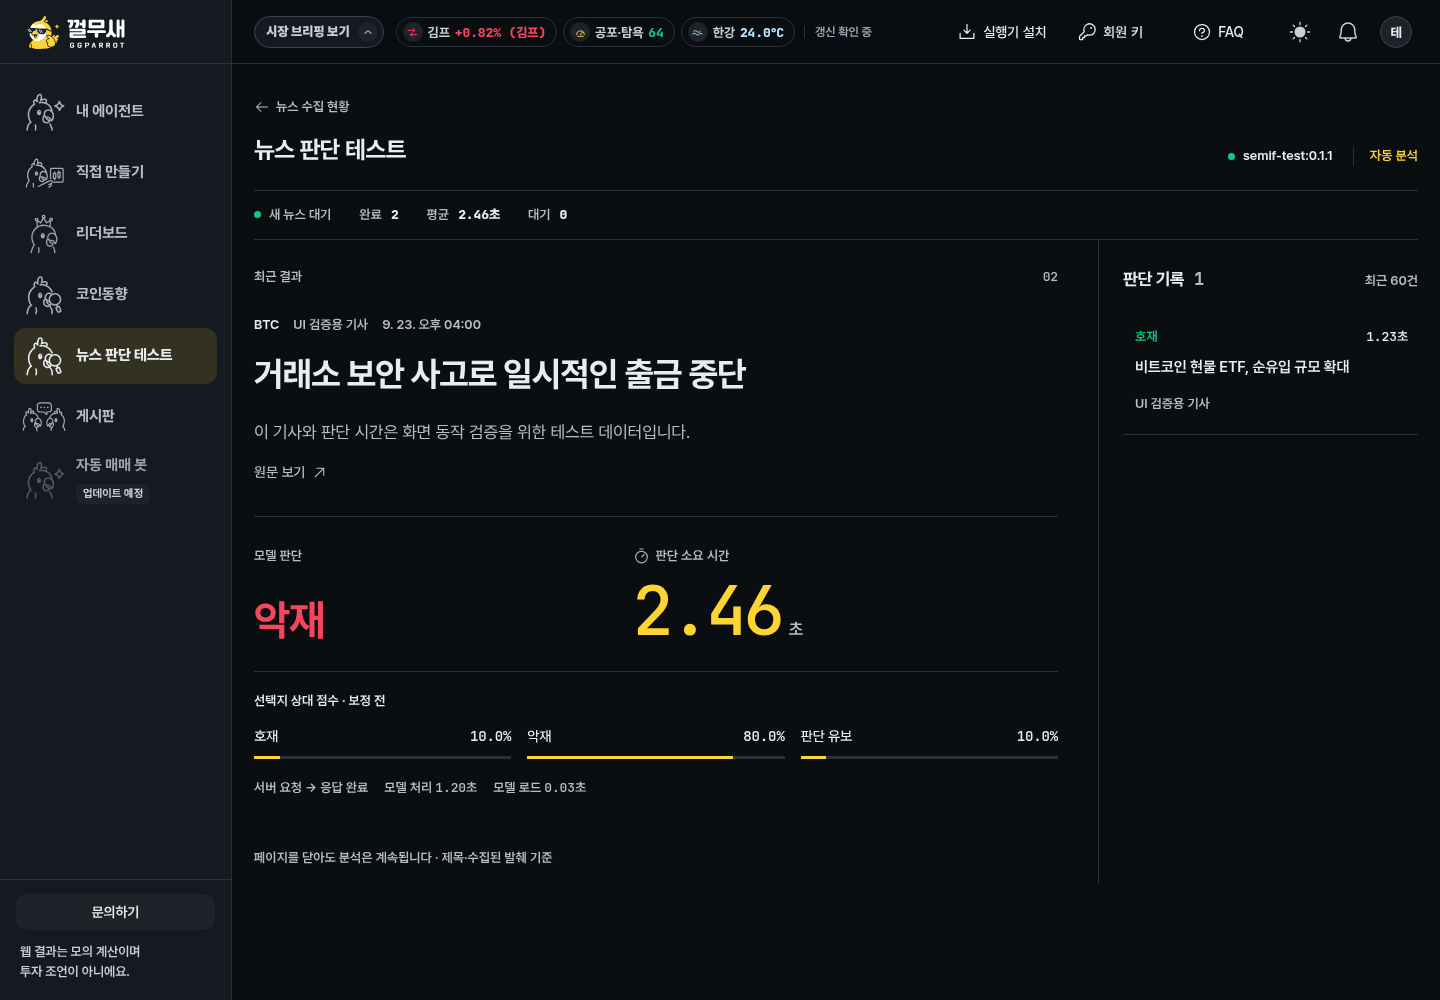
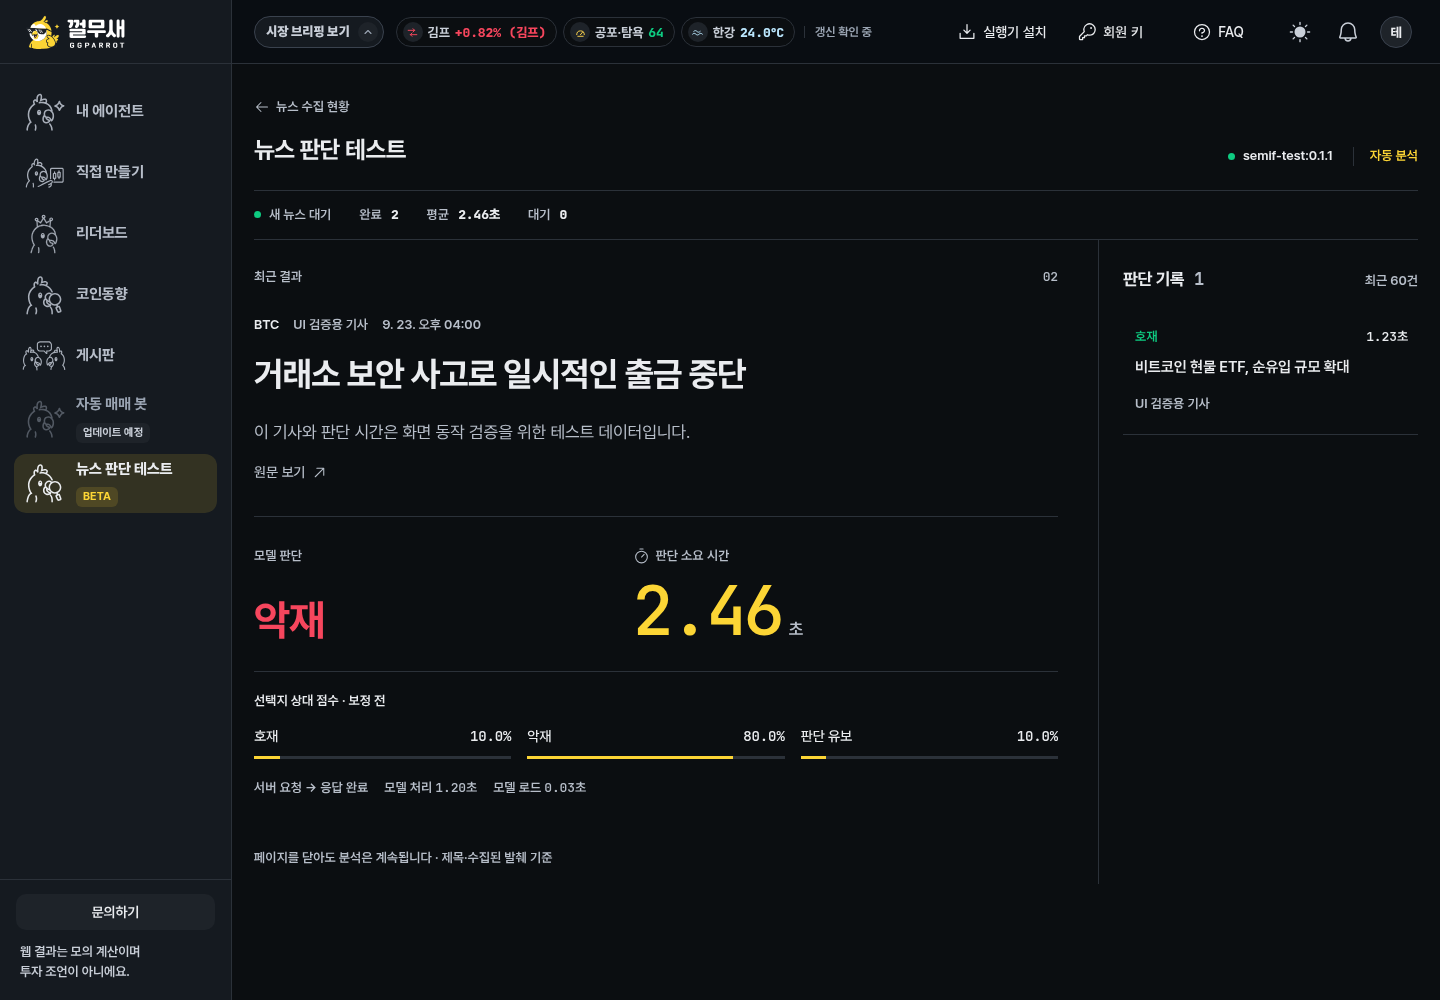
ui: move news test to bottom with beta badge

Changed region(s): [[0.0, 0.31, 0.1562, 0.527]]

diff --git a/frontend/src/components/SiteNavigation.jsx b/frontend/src/components/SiteNavigation.jsx
@@ -9,10 +9,10 @@ const NAV_LINKS = [
   { to: "/builder", label: "직접 만들기", icon: "builder", matches: ["/builder", "/s/"] },
   { to: "/leaderboard", label: "리더보드", icon: "leaderboard", matches: ["/leaderboard", "/gallery"] },
   { to: "/news", label: "코인동향", icon: "news", matches: ["/news"] },
-  { to: "/admin/news-test", label: "뉴스 판단 테스트", icon: "news", end: true, adminOnly: true },
   { to: "/board", label: "게시판", icon: "board", matches: ["/board"] },
   // 준비 중인 페이지 — 링크가 아니라 자리만 잡는다(배지 `업데이트 예정`, 비활성). 열리면 to 를 살리고 soon 을 뗀다.
   { to: "/bots", label: "자동 매매 봇", icon: "agent", matches: ["/bots"], soon: true, soonLabel: "업데이트 예정" },
+  { to: "/admin/news-test", label: "뉴스 판단 테스트", icon: "news", end: true, adminOnly: true, badge: "BETA" },
 ];
 
 const NAV_ICON_SOURCES = {
@@ -110,10 +110,16 @@ function NavigationList({ pathname, onNavigate, tabIndex }) {
             onClick={onNavigate}
             tabIndex={tabIndex}
             aria-current={active ? "page" : undefined}
+            aria-label={link.badge ? link.label : undefined}
             className={`site-side-link ${active ? "is-active" : ""}`}
           >
             <span className="site-side-icon" aria-hidden="true"><NavIcon name={link.icon} /></span>
-            <span className="site-side-label">{link.label}</span>
+            {link.badge ? (
+              <span className="site-side-label-row">
+                <span className="site-side-label">{link.label}</span>
+                <span className="site-side-badge is-beta">{link.badge}</span>
+              </span>
+            ) : <span className="site-side-label">{link.label}</span>}
           </NavLink>
         );
       })}

diff --git a/frontend/src/index.css b/frontend/src/index.css
@@ -1763,6 +1763,7 @@ h1, h2, h3, h4 { letter-spacing: -0.02em; }
 .site-side-link.is-soon .site-side-icon-glyph { opacity: 0.45; }
 .site-side-label-row { min-width: 0; display: flex; align-items: center; gap: 8px; flex-wrap: wrap; }
 .site-side-badge { flex: none; display: inline-flex; align-items: center; height: 20px; padding: 0 7px; border-radius: 6px; background: rgb(var(--c-slate-100)); color: rgb(var(--c-slate-500)); font-size: 11px; font-weight: 700; letter-spacing: 0.01em; white-space: nowrap; }
+.site-side-badge.is-beta { background: rgb(var(--c-brand-line) / 0.14); color: rgb(var(--c-brand-line)); }
 
 .site-sidebar-bottom {
   margin-top: auto;

diff --git a/frontend/tests/newsSentimentBrowser.smoke.py b/frontend/tests/newsSentimentBrowser.smoke.py
@@ -102,6 +102,8 @@ def main():
                 menu = nav.get_by_role("link", name="뉴스 판단 테스트", exact=True)
                 expect(menu).to_be_visible()
                 expect(menu).to_have_attribute("aria-current", "page")
+                expect(menu.locator(".site-side-badge.is-beta")).to_have_text("BETA")
+                expect(nav.locator(".site-side-list > :last-child")).to_have_attribute("href", "/admin/news-test")
                 menu.click()
                 if width < 768:
                     expect(nav).to_have_attribute("aria-hidden", "true")
